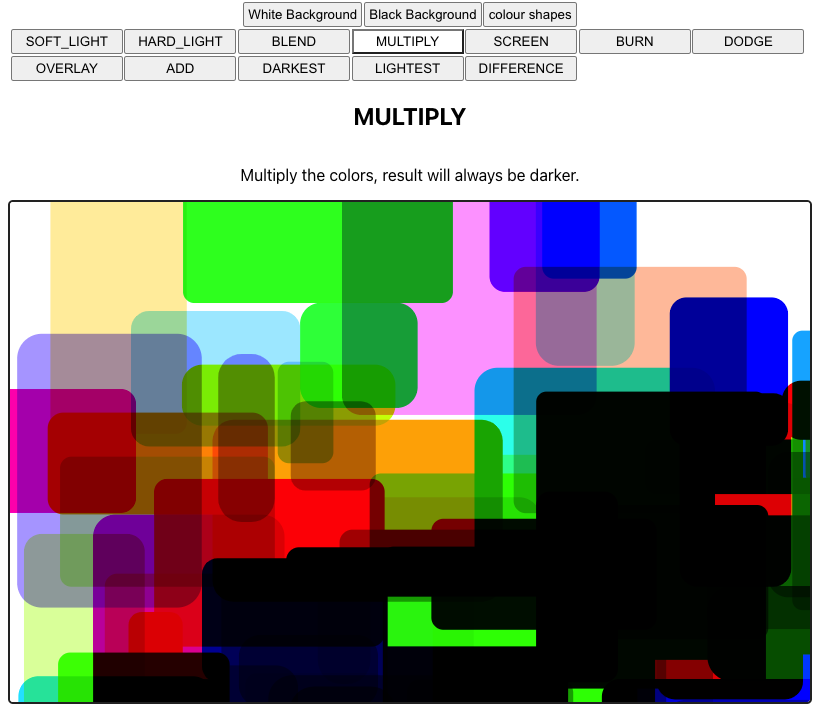
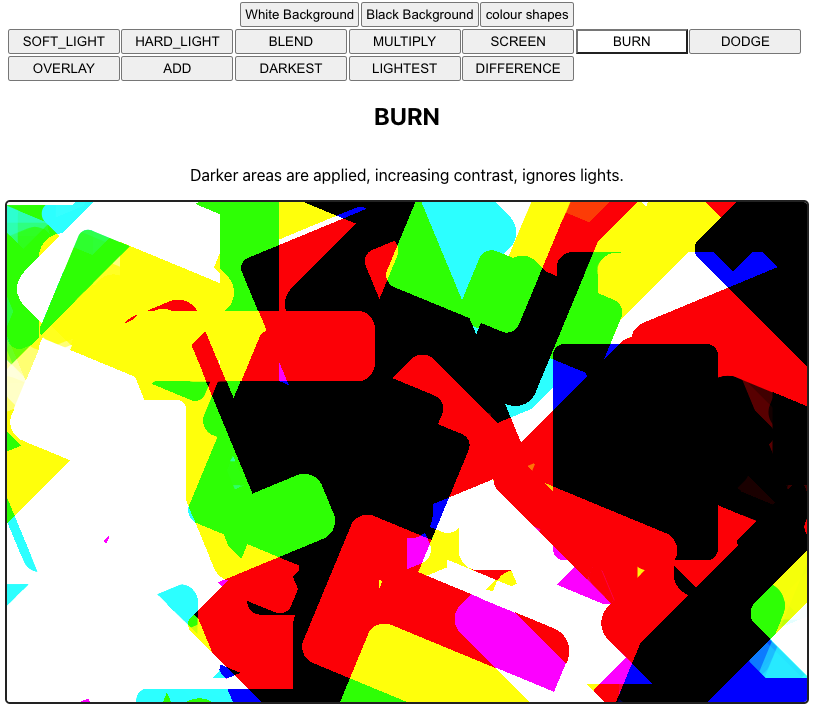
don't wipe bg.  add new screenshot

diff --git a/src/BlendModeDemo/BlendModeDemoSketch.tsx b/src/BlendModeDemo/BlendModeDemoSketch.tsx
@@ -58,7 +58,6 @@ export function blendModeDemoSketch(p5: P5Instance) {
   }
 
   p5.draw = () => {
-    p5.background(bgColour);
     drawShapes();
   };
 

diff --git a/README.md b/README.md
@@ -11,4 +11,6 @@ There also exists a plain p5.js version of this Blend Mode Demo app, [source her
 
 ![screenshot](public/screenshot.png)
 
+---
+
 The React app is bootstrapped with Create React App. [Read the original Create React App docs](./README_CRA.md)
